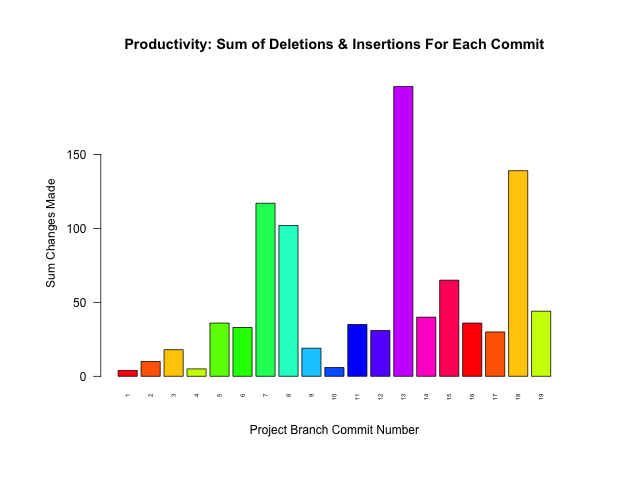
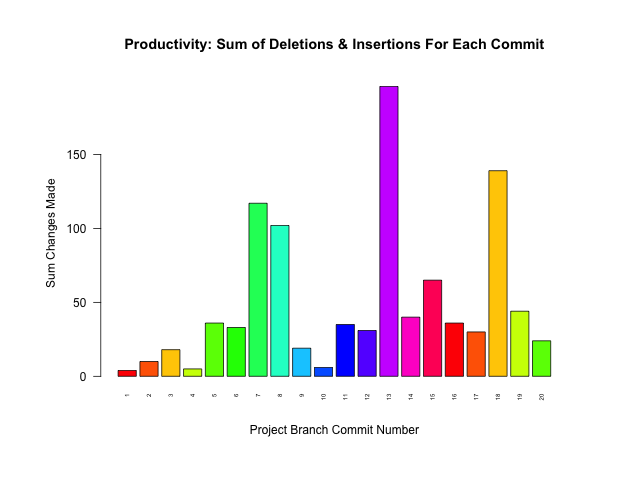
COMMIT #179

Changed region(s): [[0.2188, 0.1562, 0.875, 0.7812], [0.625, 0.8125, 0.75, 0.8438], [0.5, 0.8125, 0.5625, 0.8438]]

diff --git a/README.md b/README.md
@@ -17,10 +17,10 @@ ProjectName::BranchName.data
 
 Project Name | Last Updated | # Commits | # Branches | Branches Merged
 :---|:---:|:---:|:---:|:---:
-[learn_some_C.Plus.Plus](https://github.com/pierremigeon/learn_some_C.Plus.Plus)                    |  2023-05-21  |  19   |  1  |  100%  (1/1)
+[learn_some_C.Plus.Plus](https://github.com/pierremigeon/learn_some_C.Plus.Plus)                    |  2023-05-21  |  20   |  1  |  100%  (1/1)
+[commit_tracker](https://github.com/pierremigeon/commit_tracker)                                    |  2023-05-21  |  178  |  1  |  100%  (1/1)
 [minishell](https://github.com/pierremigeon/minishell)                                              |  2023-05-20  |  78   |  8  |  88%   (7/8)
 [libft](https://github.com/pierremigeon/libft)                                                      |  2023-05-20  |  28   |  2  |  50%   (1/2)
-[commit_tracker](https://github.com/pierremigeon/commit_tracker)                                    |  2023-05-20  |  177  |  1  |  100%  (1/1)
 [FASTQ_examiner](https://github.com/pierremigeon/FASTQ_examiner)                                    |  2023-05-12  |  68   |  4  |  50%   (2/4)
 [ft_printf](https://github.com/pierremigeon/ft_printf)                                              |  2023-01-27  |  36   |  2  |  100%  (2/2)
 [test_non-fastforward_merge-push](https://github.com/pierremigeon/test_non-fastforward_merge-push)  |  2023-01-27  |  15   |  2  |  50%   (1/2)
